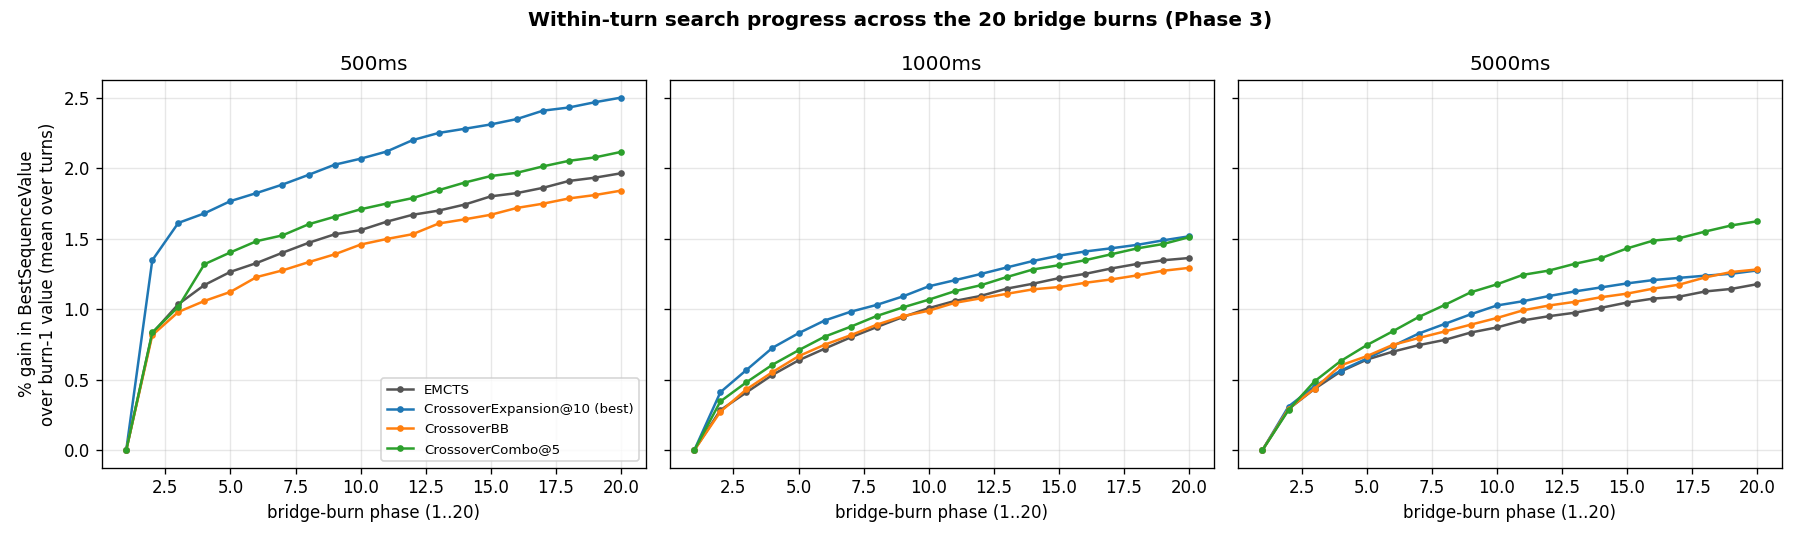
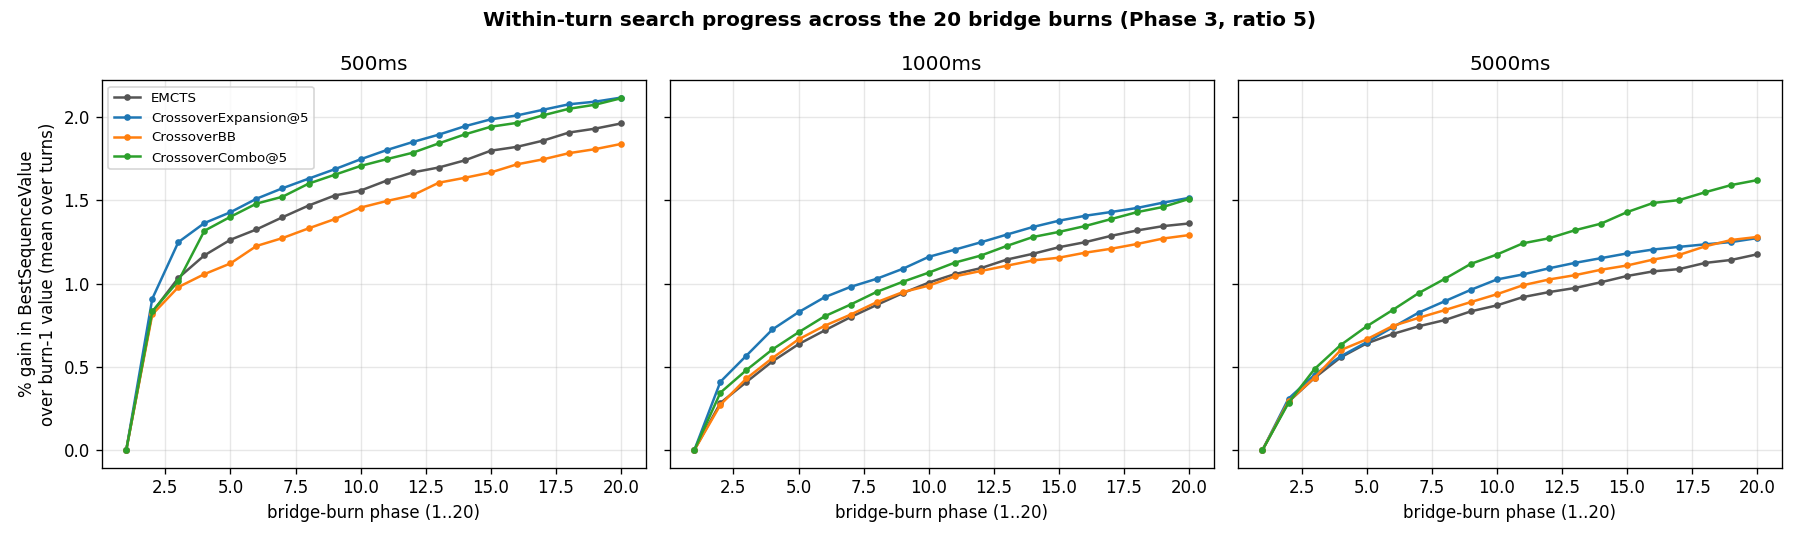
Harmonize fig2 to ratio 5; add fig10 (absolute family value trajectory)
- fig2: CrossoverExpansion and CrossoverCombo now both shown at ratio 5, so the
  only difference between them is the bridge-burn-crossover mechanism (ratio held
  fixed, not mixed into the family comparison).
- fig10_family_value_trajectory.png: absolute-value companion to fig2 (the same
  transform fig9 is to fig8). RESULTS.md notes the band levels are endogenous
  (cumulative board strength) and only the slope (within-turn gain, ~constant) is
  the comparable search signal.
- Refactored shared family_frames() helper.

diff --git a/Tribes-master/analysis/analyze.py b/Tribes-master/analysis/analyze.py
@@ -192,33 +192,50 @@ def burn_pct_trajectory(df):
     piv = piv[base > 0]; base = base[base > 0]
     return piv.div(base, axis=0).sub(1).mul(100).mean()
 
+def family_frames(lv):
+    """The four family trajectories, with CrossoverExpansion AND CrossoverCombo both at the standard
+    ratio 5 — so the only difference between them is the bridge-burn-crossover mechanism (the ratio is
+    held fixed, not mixed in). Returns [(label, color, burn_rows_df), ...]."""
+    std = pd.read_csv(BASE/f'phase3/Phase3_standardBB_{lv}.csv')
+    cbb = pd.read_csv(BASE/f'phase3/Phase3_crossoverBB_{lv}.csv')
+    rtj = pd.read_csv(BASE/f'phase3/Phase3_ratio_trajectory_{lv}.csv')
+    cbb['RatioNum'] = pd.to_numeric(cbb['Ratio'], errors='coerce')
+    rtj['RatioNum'] = pd.to_numeric(rtj['Ratio'], errors='coerce')
+    return [
+        ('EMCTS', C['EMCTS'], std[std.AgentName=='EMCTS']),
+        ('CrossoverExpansion@5', C['CrossoverExpansion'], rtj[(rtj.AgentName=='CrossoverExpansion') & (rtj.RatioNum==5)]),
+        ('CrossoverBB', C['CrossoverBB'], cbb[cbb.AgentName=='CrossoverBB']),
+        ('CrossoverCombo@5', C['CrossoverCombo'], cbb[(cbb.AgentName=='CrossoverCombo') & (cbb.RatioNum==5)]),
+    ]
+
 def fig_within_turn_trajectory():
-    """Within-turn bridge-burn trajectory per family agent, including CrossoverExpansion at the
-    per-level best ratio. Mean % gain of BestSequenceValue over its burn-1 value, vs burn phase."""
+    """Within-turn bridge-burn trajectory per family agent (Expansion and Combo both at ratio 5, so
+    only the BB mechanism differs). Mean % gain of BestSequenceValue over its burn-1 value vs phase."""
     fig, axes = plt.subplots(1, 3, figsize=(15,4.5), sharey=True)
     for ax,lv in zip(axes,LEVELS):
-        std = pd.read_csv(BASE/f'phase3/Phase3_standardBB_{lv}.csv')
-        cbb = pd.read_csv(BASE/f'phase3/Phase3_crossoverBB_{lv}.csv')
-        rtj = pd.read_csv(BASE/f'phase3/Phase3_ratio_trajectory_{lv}.csv')
-        cbb['RatioNum'] = pd.to_numeric(cbb['Ratio'], errors='coerce')
-        rtj['RatioNum'] = pd.to_numeric(rtj['Ratio'], errors='coerce')
-        best = BEST_RATIO[lv]
-        frames = [
-            ('EMCTS', C['EMCTS'], std[std.AgentName=='EMCTS']),
-            (f'CrossoverExpansion@{best} (best)', C['CrossoverExpansion'],
-                rtj[(rtj.AgentName=='CrossoverExpansion') & (rtj.RatioNum==best)]),
-            ('CrossoverBB', C['CrossoverBB'], cbb[cbb.AgentName=='CrossoverBB']),
-            ('CrossoverCombo@5', C['CrossoverCombo'], cbb[(cbb.AgentName=='CrossoverCombo') & (cbb.RatioNum==5)]),
-        ]
-        for nm,col,d in frames:
+        for nm,col,d in family_frames(lv):
             m = burn_pct_trajectory(d)
             if m is not None:
                 ax.plot(m.index, m.values, marker='.', color=col, label=nm)
         ax.set_title(lv); ax.set_xlabel('bridge-burn phase (1..20)')
     axes[0].set_ylabel('% gain in BestSequenceValue\nover burn-1 value (mean over turns)')
     axes[0].legend(fontsize=8)
-    fig.suptitle('Within-turn search progress across the 20 bridge burns (Phase 3)', fontweight='bold')
+    fig.suptitle('Within-turn search progress across the 20 bridge burns (Phase 3, ratio 5)', fontweight='bold')
     fig.tight_layout(); fig.savefig(FIGS/'fig2_within_turn_trajectory.png'); plt.close(fig)
+
+def fig_family_value_trajectory():
+    """Absolute companion to fig 2 (the same modification fig 9 is to fig 8): mean ABSOLUTE
+    BestSequenceValue per family agent (Expansion/Combo at ratio 5) vs bridge-burn phase."""
+    fig, axes = plt.subplots(1, 3, figsize=(15,4.5))   # not sharey: per-level value ranges differ
+    for ax,lv in zip(axes,LEVELS):
+        for nm,col,d in family_frames(lv):
+            m = burn_abs_trajectory(d)
+            ax.plot(m.index, m.values, marker='.', color=col, label=nm)
+        ax.set_title(lv); ax.set_xlabel('bridge-burn phase (1..20)')
+    axes[0].set_ylabel('mean BestSequenceValue\n(absolute, averaged over all turns)')
+    axes[0].legend(fontsize=8)
+    fig.suptitle('Overall sequence value across the 20 bridge burns (Phase 3, ratio 5)', fontweight='bold')
+    fig.tight_layout(); fig.savefig(FIGS/'fig10_family_value_trajectory.png'); plt.close(fig)
 
 def fig_expansion_ratio_trajectory():
     """Within-turn bridge-burn trajectory of CrossoverExpansion alone, one line per tested ratio.
@@ -381,7 +398,7 @@ if __name__ == '__main__':
     t4,wr = t4_improvement_vs_emcts()
     print(t4.to_string(index=False)); print(); print(wr.to_string(index=False))
     print('\nWriting figures...')
-    fig_ratio_sweep(); fig_within_turn_trajectory(); fig_expansion_ratio_trajectory()
-    fig_expansion_ratio_value(); fig_burn_crossover_benefit(); fig_winrates()
-    fig_value_vs_score(); fig_efficiency(); fig_final_score_outcome()
+    fig_ratio_sweep(); fig_within_turn_trajectory(); fig_family_value_trajectory()
+    fig_expansion_ratio_trajectory(); fig_expansion_ratio_value(); fig_burn_crossover_benefit()
+    fig_winrates(); fig_value_vs_score(); fig_efficiency(); fig_final_score_outcome()
     print('Done. Tables -> analysis/tables/  Figures -> analysis/figures/')

diff --git a/Tribes-master/analysis/RESULTS.md b/Tribes-master/analysis/RESULTS.md
@@ -132,13 +132,21 @@ root **unchanged in 56–90 %** of burns, **improves it in only 2–9 %**, and i
 already had, so it mostly converts budget into wasted recombinations. (Interestingly it is *less*
 harmful under Combo — green — because the expansion crossover has already enriched the candidate pool.)
 
-### 5. Within-turn search trajectory — `fig2_within_turn_trajectory.png`
-Best-sequence value vs bridge-burn phase, normalised to each turn's burn-1 value (EMCTS, the two
-burn-crossover agents, and **CrossoverExpansion at the per-level best ratio**). All variants make most
-of their gain in the first few burns and the total within-turn improvement is small (~1.2–2.5 %).
-At 500 ms the crossover variants (Expansion@10 and Combo) climb fastest; at 1000 ms Expansion@5 leads
-early; at 5000 ms Combo leads. CrossoverBB is flattest at small budgets. The relative trajectory thus
-favours the crossover variants, while the *burn-step* crossover itself adds little (see #4).
+### 5. Within-turn search trajectory — `fig2` (% gain) and `fig10` (absolute value)
+Best-sequence value vs bridge-burn phase for the four family agents, with **CrossoverExpansion and
+CrossoverCombo both held at ratio 5** so the only difference between Expansion and Combo is the
+bridge-burn-crossover mechanism (the ratio is fixed, not mixed into the comparison).
+
+- **`fig2_within_turn_trajectory.png` (% gain over burn-1):** all variants make most of their gain in the
+  first few burns; total within-turn improvement is small (~1.2–2.1 %). Expansion@5 and Combo@5 climb a
+  little faster than EMCTS and CrossoverBB is flattest at small budgets — the relative trajectory mildly
+  favours the expansion-crossover, while the burn-step crossover itself adds little (see #4).
+- **`fig10_family_value_trajectory.png` (absolute value — the same transform fig 9 applies to fig 8):**
+  the band *levels* here reflect each agent's cumulative board strength, which is **endogenous** (each
+  agent plays its own game), so the ordering shifts with budget and is **not** a clean search-quality
+  ranking — e.g. CrossoverBB sits highest at 500 ms but lowest at 5000 ms. The comparable quantity is the
+  *slope* (within-turn search gain), which is ~constant across agents (≈ 85 / 110 / 170 units), again
+  showing the agents differ mainly in cumulative board value, not in per-turn search gain.
 
 ### 5b. Trajectory by crossover-expansion ratio — `fig8` (% gain) vs `fig9` (absolute value)
 Two views of **CrossoverExpansion alone, one line per ratio**:
